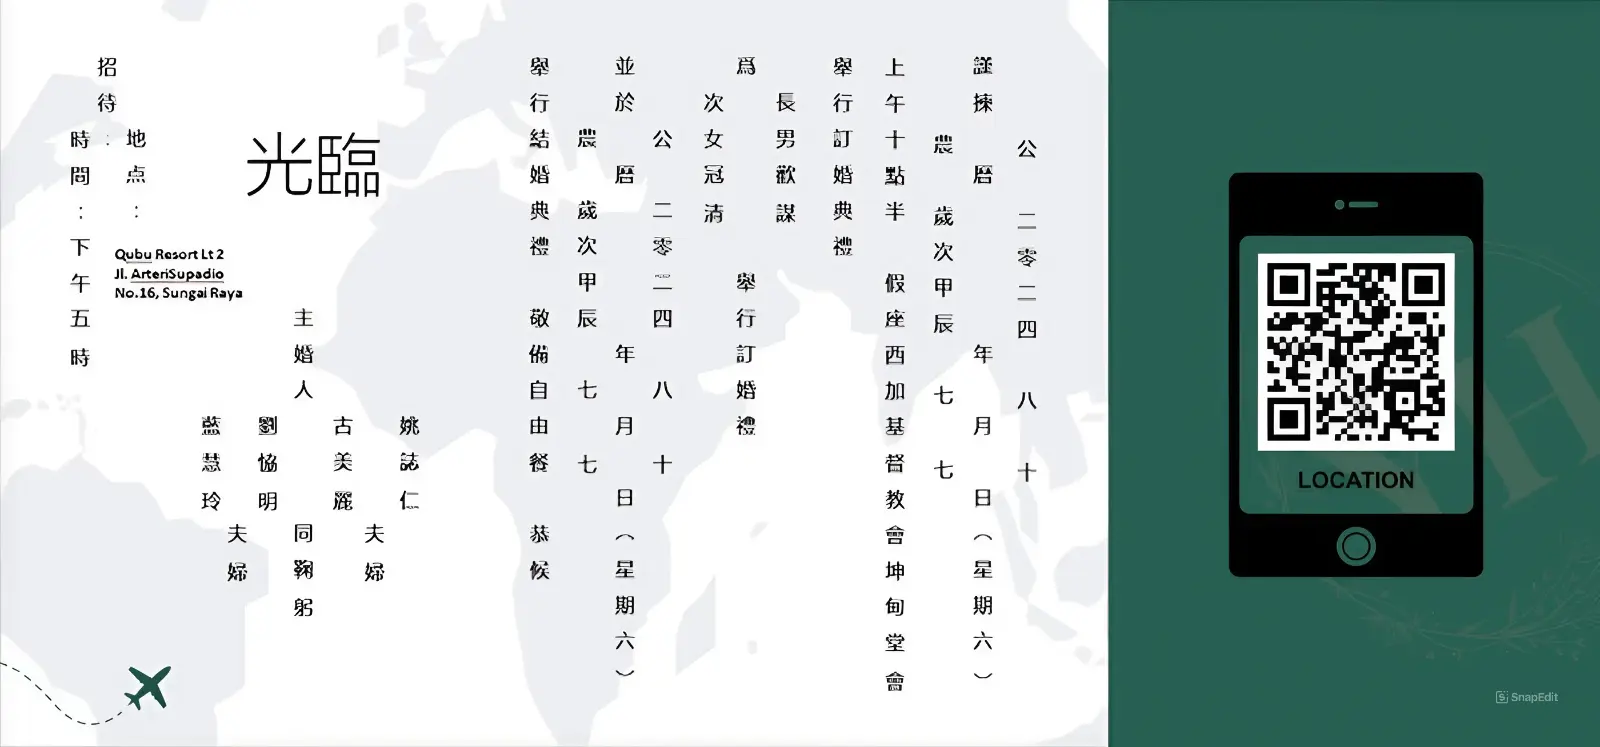
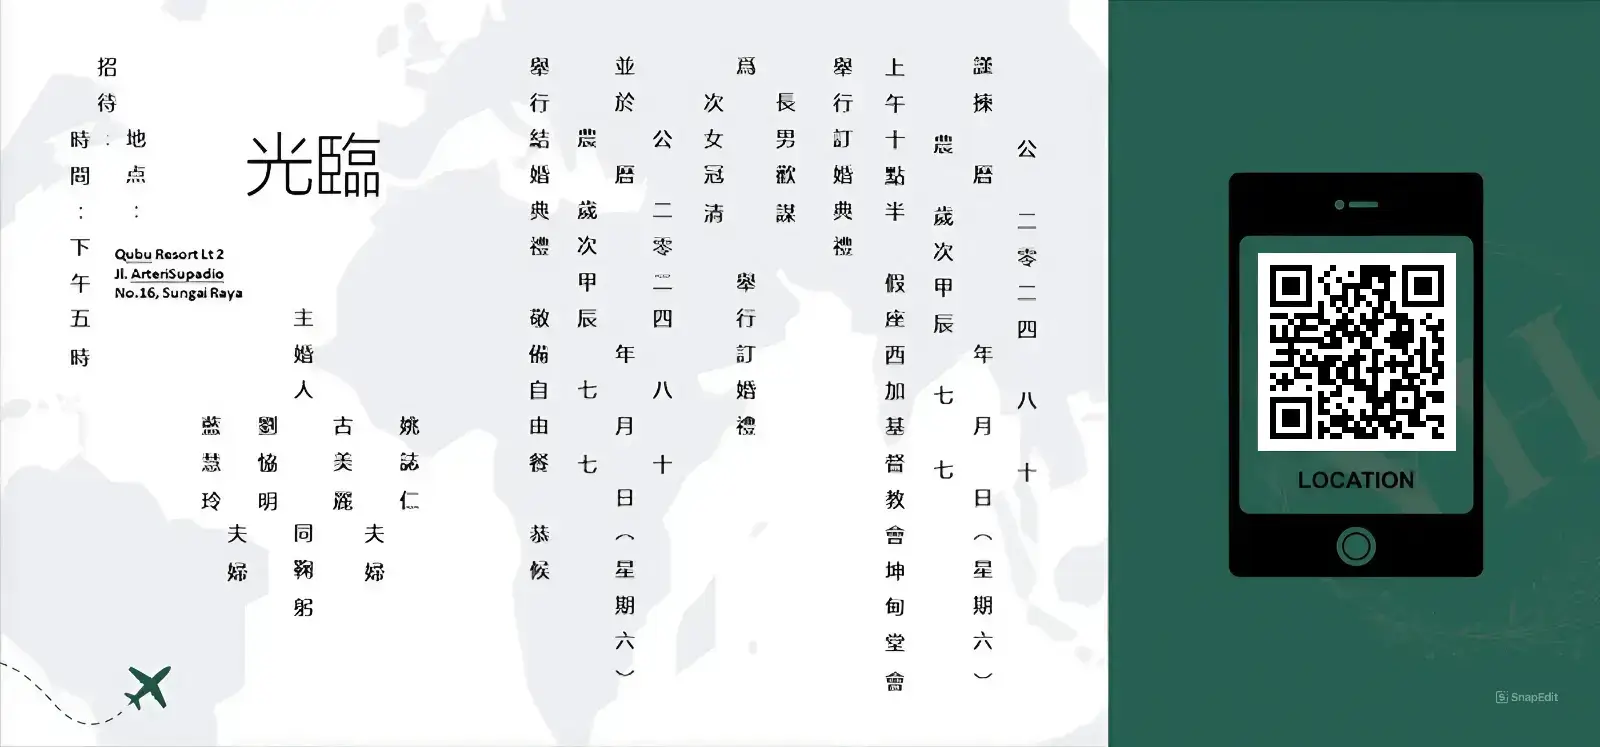
feat: update boarding pass and QR

Changed region(s): [[0.7812, 0.3387, 0.9062, 0.6158]]

diff --git a/test.py b/test.py
@@ -1,0 +1,20 @@
+import qrcode
+
+# Google Maps link
+google_maps_link = "https://maps.app.goo.gl/vJvcphZiqHZS1FAi9"
+
+# Generate QR code
+qr = qrcode.QRCode(
+    version=1,
+    error_correction=qrcode.constants.ERROR_CORRECT_L,
+    box_size=10,
+    border=2,
+)
+qr.add_data(google_maps_link)
+qr.make(fit=True)
+
+# Create an image from the QR Code instance
+img = qr.make_image(fill_color="black", back_color="white")
+
+# Save the image to a file
+img.save("google_maps_qr.png")
